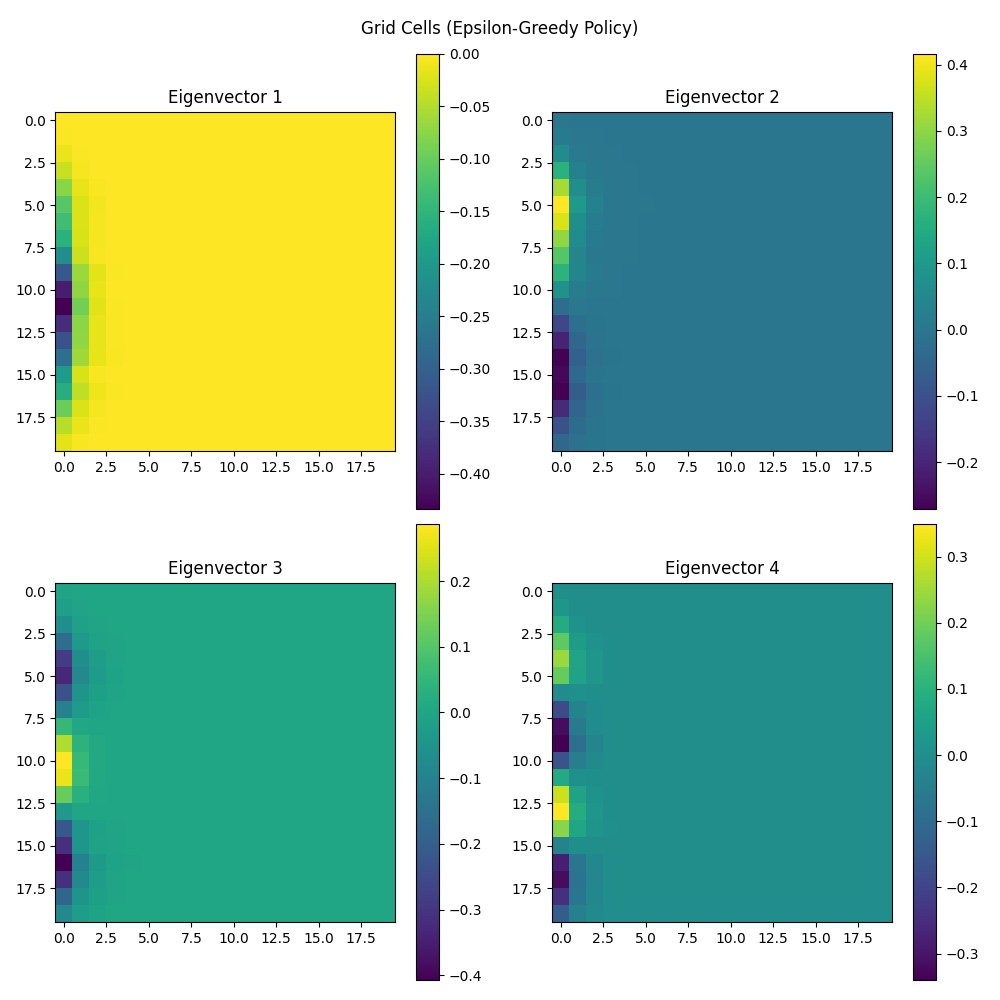
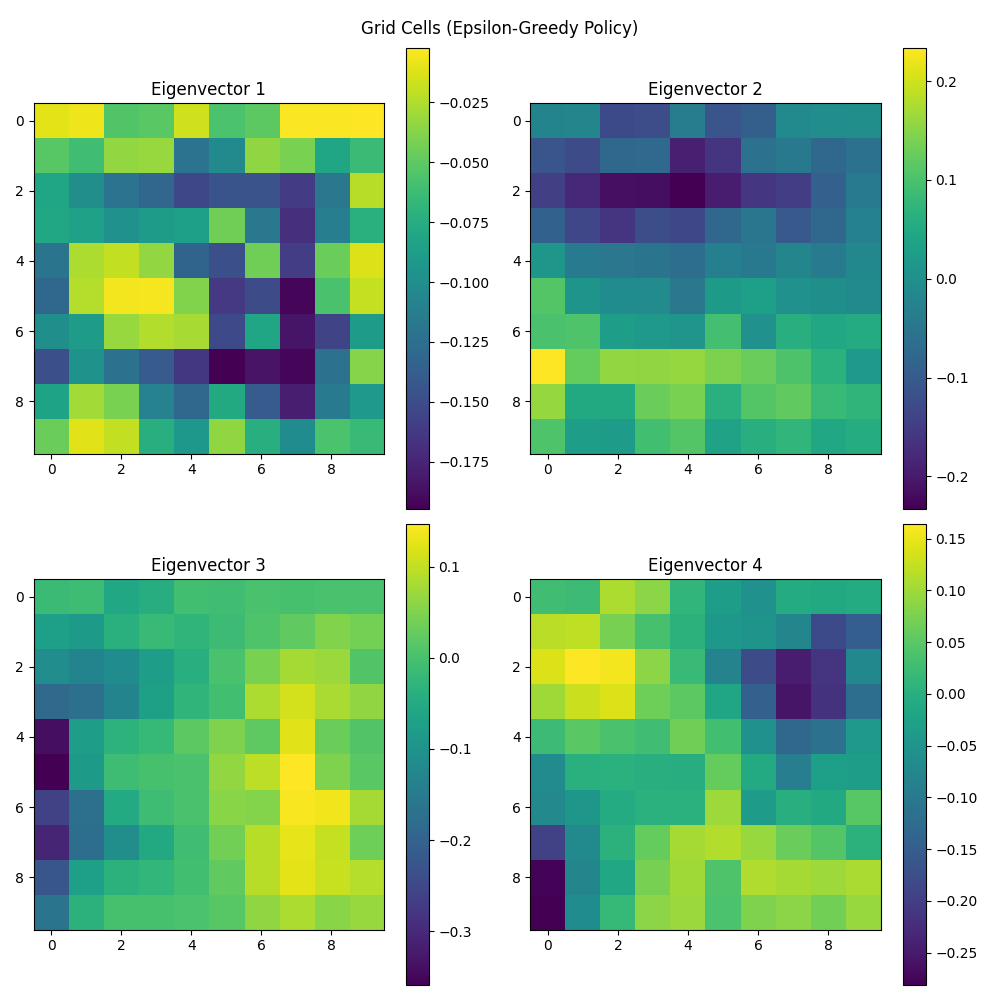
new

diff --git a/SRGoalSlice.py b/SRGoalSlice.py
@@ -7,11 +7,12 @@ from tqdm import tqdm
 import os
 import matplotlib.animation as animation
 from sklearn.decomposition import PCA #For grid cell plotting
+import random
 
 cmap = plt.cm.viridis
 cmap.set_bad(color='white')
 
-grid_size = 20
+grid_size = 10
 pattern = "empty"
 env = SimpleGrid(grid_size, block_pattern=pattern, obs_mode="index")
 env.reset(agent_pos=[0, 0], goal_pos=[0, grid_size - 1])
@@ -265,20 +266,43 @@ class TabularSuccessorAgent(object):
             Qs = self.Q_estimates(state, goal)
             return np.argmax(Qs)
     
-    # generate number of goals, if no goal size specified, goal_size = state_size
+
     def generate_goal_matrices(self):
+        # Initialize the goal matrix with zeros
         self.goals = np.zeros((self.goal_size, grid_size, grid_size), dtype=int)
         
-        available_positions = [(x, y) for x in range(grid_size) for y in range(grid_size) if [x, y] not in env.blocks]
+        # Get all available positions (excluding blocks)
+        available_positions = [(x, y) for x in range(grid_size) for y in range(grid_size) if (x, y) not in env.blocks]
+        
+        # Check if we have enough available positions to place the goals
+        if self.goal_size > len(available_positions):
+            raise ValueError("Not enough available positions to place all goals.")
+        
+        # Shuffle the available positions to ensure random placement
+        random.shuffle(available_positions)
+        
+        # Assign a unique random position to each slice
         for slice_index in range(self.goal_size):
-            if slice_index < len(available_positions):
-                x, y = available_positions[slice_index]
-                self.goals[slice_index, x, y] = 1
-                print(f"Slice {slice_index}: Position ({x}, {y}) set as goal")
-            else:
-                break
+            x, y = available_positions[slice_index]
+            self.goals[slice_index, x, y] = 1
+            print(f"Slice {slice_index}: Position ({x}, {y}) set as goal")
         
         return self.goals
+
+    # generate number of goals, if no goal size specified, goal_size = state_size
+    # def generate_goal_matrices(self):
+    #     self.goals = np.zeros((self.goal_size, grid_size, grid_size), dtype=int)
+        
+    #     available_positions = [(x, y) for x in range(grid_size) for y in range(grid_size) if [x, y] not in env.blocks]
+    #     for slice_index in range(self.goal_size):
+    #         if slice_index < len(available_positions):
+    #             x, y = available_positions[slice_index]
+    #             self.goals[slice_index, x, y] = 1
+    #             print(f"Slice {slice_index}: Position ({x}, {y}) set as goal")
+    #         else:
+    #             break
+        
+    #     return self.goals
 
     # OLD W UPDATE
     # Updates the reward prediction weights based on the rewards observed
@@ -373,7 +397,7 @@ initial_train_epsilon = 0.6
 epsilon_decay = 0.995
 
 test_epsilon = 0.01
-goal_size = 2500 # Testing with a goal for every state
+goal_size = 49 # Testing with a goal for every state
 
 # Initialize the agent and environment
 agent = TabularSuccessorAgent(env.state_size, env.action_size, lr, gamma, goal_size)
@@ -392,81 +416,81 @@ goal_order = np.random.permutation(goal_size)
 # Shuffle the order of goals with targets
 np.random.shuffle(goals_with_targets)
 
-# --------------------Random Policy Training Loop --------------------
-# This loop trains the agent using a random policy (epsilon = 1)
+# # --------------------Random Policy Training Loop --------------------
+# # This loop trains the agent using a random policy (epsilon = 1)
 
-random_policy_experiences = []
-random_policy_test_experiences = []
-random_policy_test_lengths = []
-random_policy_td_errors = []
+# random_policy_experiences = []
+# random_policy_test_experiences = []
+# random_policy_test_lengths = []
+# random_policy_td_errors = []
 
-# Reinitialize the agent
-random_policy_agent = TabularSuccessorAgent(env.state_size, env.action_size, lr, gamma, goal_size)
+# # Reinitialize the agent
+# random_policy_agent = TabularSuccessorAgent(env.state_size, env.action_size, lr, gamma, goal_size)
 
-# Filter out slices without goals
-goals_with_targets = [slice_index for slice_index in range(agent.goals.shape[0]) if np.any(agent.goals[slice_index])]
+# # Filter out slices without goals
+# goals_with_targets = [slice_index for slice_index in range(agent.goals.shape[0]) if np.any(agent.goals[slice_index])]
 
-print(f"Number of slices with goals: {len(goals_with_targets)}")
+# print(f"Number of slices with goals: {len(goals_with_targets)}")
 
-# Calculate episodes per goal
-episodes_per_goal = episodes // len(goals_with_targets)
-remaining_episodes = episodes % len(goals_with_targets)
+# # Calculate episodes per goal
+# episodes_per_goal = episodes // len(goals_with_targets)
+# remaining_episodes = episodes % len(goals_with_targets)
 
-# Shuffle the order of goals with targets
-np.random.shuffle(goals_with_targets)
+# # Shuffle the order of goals with targets
+# np.random.shuffle(goals_with_targets)
 
-# Training loop for random policy
-for episode in range(episodes):
-    goal_index = goals_with_targets[episode % len(goals_with_targets)]
+# # Training loop for random policy
+# for episode in range(episodes):
+#     goal_index = goals_with_targets[episode % len(goals_with_targets)]
     
-    epsilon = 1  # Set epsilon to 1 for random policy
+#     epsilon = 1  # Set epsilon to 1 for random policy
     
-    # training phase
-    agent_start = random_valid_position(env)
-    goal_pos = env.state_to_point(np.where(random_policy_agent.goals[goal_index] == 1)[0][0])
+#     # training phase
+#     agent_start = random_valid_position(env)
+#     goal_pos = env.state_to_point(np.where(random_policy_agent.goals[goal_index] == 1)[0][0])
 
-    env.reset(agent_pos=agent_start, goal_pos=goal_pos)
-    state = env.observation
-    episodic_error = []
+#     env.reset(agent_pos=agent_start, goal_pos=goal_pos)
+#     state = env.observation
+#     episodic_error = []
 
-    for j in range(train_episode_length):
-        action = random_policy_agent.sample_action(state, epsilon=epsilon)
-        reward = env.step(action)
-        next_state = env.observation
-        done = env.done
-        random_policy_experiences.append([state, action, next_state, reward])
-        experience = [state, action, next_state, reward, done]
+#     for j in range(train_episode_length):
+#         action = random_policy_agent.sample_action(state, epsilon=epsilon)
+#         reward = env.step(action)
+#         next_state = env.observation
+#         done = env.done
+#         random_policy_experiences.append([state, action, next_state, reward])
+#         experience = [state, action, next_state, reward, done]
         
-        td_sr = random_policy_agent.update_sr(experience)
-        td_w = random_policy_agent.update_w(experience)  # This now updates for all goals
-        episodic_error.append(np.mean(np.abs(td_sr)))
+#         td_sr = random_policy_agent.update_sr(experience)
+#         td_w = random_policy_agent.update_w(experience)  # This now updates for all goals
+#         episodic_error.append(np.mean(np.abs(td_sr)))
         
-        state = next_state
-        if done:
-            break
+#         state = next_state
+#         if done:
+#             break
     
-    random_policy_td_errors.append(np.mean(episodic_error))
+#     random_policy_td_errors.append(np.mean(episodic_error))
     
-    # Test phase
-    agent_start = random_valid_position(env)
-    env.reset(agent_pos=agent_start, goal_pos=goal_pos)
-    state = env.observation
-    for j in range(test_episode_length):
-        action = random_policy_agent.sample_action(state, epsilon=test_epsilon)
-        reward = env.step(action)
-        state_next = env.observation
-        random_policy_test_experiences.append([state, action, state_next, reward])
-        state = state_next
-        if env.done:
-            break
-    random_policy_test_lengths.append(j)
+#     # Test phase
+#     agent_start = random_valid_position(env)
+#     env.reset(agent_pos=agent_start, goal_pos=goal_pos)
+#     state = env.observation
+#     for j in range(test_episode_length):
+#         action = random_policy_agent.sample_action(state, epsilon=test_epsilon)
+#         reward = env.step(action)
+#         state_next = env.observation
+#         random_policy_test_experiences.append([state, action, state_next, reward])
+#         state = state_next
+#         if env.done:
+#             break
+#     random_policy_test_lengths.append(j)
 
-print("\nRandom policy training completed.")
+# print("\nRandom policy training completed.")
 
-# After random policy training
-plot_grid_cells(random_policy_agent, env, "Grid Cells (Random Policy)")
-plot_value_functions(random_policy_agent, env, "Value Functions (Random Policy)")
-plot_raw_sr(random_policy_agent.M, env, "SR Matrix Random")
+# # After random policy training
+# plot_grid_cells(random_policy_agent, env, "Grid Cells (Random Policy)")
+# plot_value_functions(random_policy_agent, env, "Value Functions (Random Policy)")
+# plot_raw_sr(random_policy_agent.M, env, "SR Matrix Random")
 
 
 
@@ -477,7 +501,7 @@ plot_raw_sr(random_policy_agent.M, env, "SR Matrix Random")
 epsilon_greedy_agent = TabularSuccessorAgent(env.state_size, env.action_size, lr, gamma, goal_size)
 
 # Filter out slices without goals
-goals_with_targets = [slice_index for slice_index in range(agent.goals.shape[0]) if np.any(agent.goals[slice_index])]
+goals_with_targets = [slice_index for slice_index in range(epsilon_greedy_agent.goals.shape[0]) if np.any(epsilon_greedy_agent.goals[slice_index])]
 
 experiences = []
 test_experiences = []
@@ -497,7 +521,11 @@ if not os.path.exists('videos'):
 
 epsilon = initial_train_epsilon
 
-for episode in range(episodes):
+
+print("plotting goals")
+plot_goal_matrices(epsilon_greedy_agent.goals, env)
+
+for episode in tqdm(range(episodes), "Training for Epsilod-Greedy"):
     goal_index = goals_with_targets[episode % len(goals_with_targets)]
 
     agent_start = random_valid_position(env)
